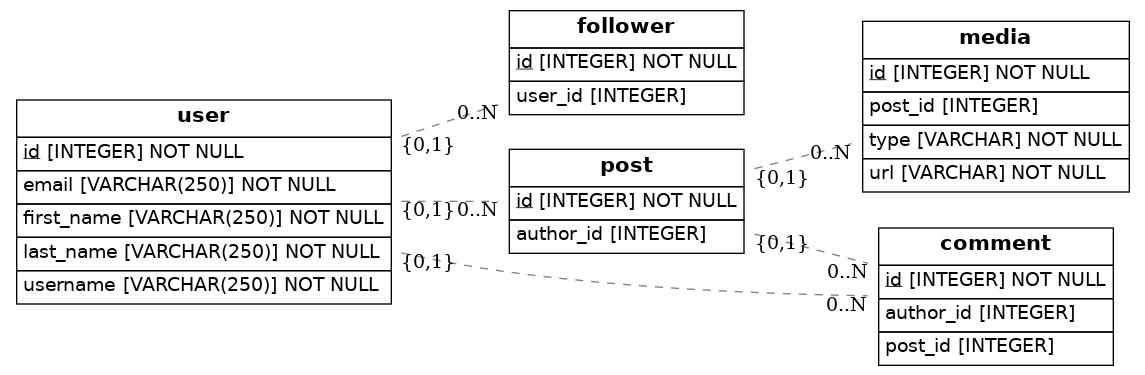
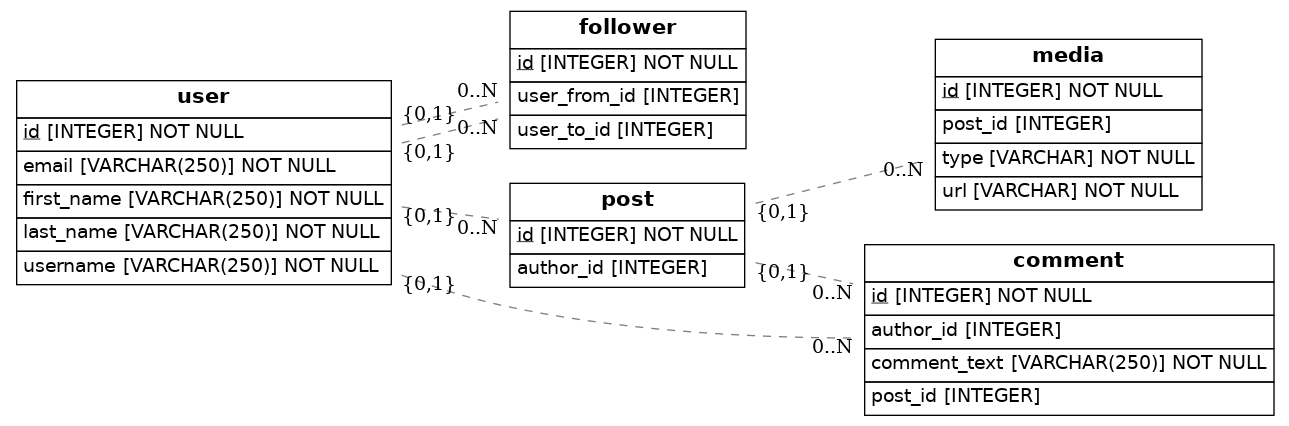
fixed id from user on follower class, comment text on comment class

Changed region(s): [[0.0, 0.0, 1.0, 0.9973], [0.4585, 0.7333, 0.4891, 0.7627]]

diff --git a/src/models.py b/src/models.py
@@ -20,7 +20,8 @@ class User(Base):
 class Follower(Base):
     __tablename__ = "follower"
     id = Column(Integer, primary_key=True)
-    user_id = Column(Integer, ForeignKey('user.id'))
+    user_from_id = Column(Integer, ForeignKey('user.id'))
+    user_to_id = Column(Integer, ForeignKey('user.id'))
     user = relationship(User)
 
 class Post(Base):
@@ -46,6 +47,7 @@ class Comment(Base):
     # Here we define columns for the table address.
     # Notice that each column is also a normal Python instance attribute.
     id = Column(Integer, primary_key=True)
+    comment_text = Column(String(250), nullable=False)
 
     author_id = Column(Integer, ForeignKey('user.id'))
     author = relationship(User)
